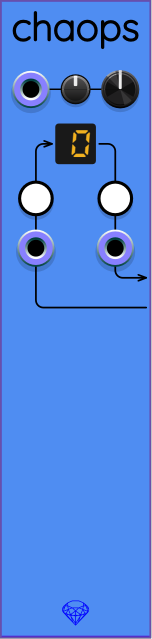
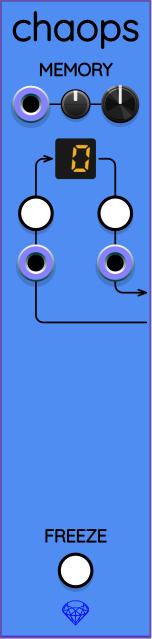
Chaops panel: Added MEMORY label. Moved stuff up/down for cosmetics.

Changed region(s): [[0.0789, 0.0892, 0.9737, 0.5055], [0.2895, 0.8028, 0.7105, 0.9515]]

diff --git a/util/make_sapphire_svg.py b/util/make_sapphire_svg.py
@@ -99,17 +99,18 @@ def GenerateChaosOperatorsPanel(cdict:Dict[str,ControlLayer]) -> int:
     cdict[name] = controls = ControlLayer()
 
     xmid = panel.mmWidth / 2
-    yMemorySelect = 18.0
-    yMemoryDisplay = 29.0
-    yMemoryButton = 40.0
-    yMemoryTriggerPorts = 50.0
-    yFreezeButton = 90.0
+    dyMemory = 3.0
+    yMemorySelect = 18.0 + dyMemory
+    yMemoryDisplay = 29.0 + dyMemory
+    yMemoryButton = 40.0 + dyMemory
+    yMemoryTriggerPorts = 50.0 + dyMemory
+    yFreezeButton = 115.0
     dxButton = 8.0
     xStore  = xmid - dxButton
     xRecall = xmid + dxButton
     arcRadius = 1.5
-    yRecallLine = 56.0
-    yStoreLine = 62.0
+    yRecallLine = 56.0 + dyMemory
+    yStoreLine  = 62.0 + dyMemory
     xRightPanel = panel.mmWidth - 1.0
     dxDisplay = 4.75
     dyButtonText = 7.0
@@ -156,6 +157,7 @@ def GenerateChaosOperatorsPanel(cdict:Dict[str,ControlLayer]) -> int:
         pl.append(ModelNamePath(panel, font, name))
         pl.append(StoreLineArt())
         pl.append(RecallLineArt())
+        pl.append(CenteredControlTextPath(font, 'MEMORY', xmid, yMemorySelect - dyButtonText))
         pl.append(CenteredControlTextPath(font, 'FREEZE', xmid, yFreezeButton - dyButtonText))
         AddFlatControlGroup(pl, controls, xmid, yMemorySelect, 'memsel')
         controls.append(Component('store_button',   xStore,  yMemoryButton))

diff --git a/src/sapphire_panel.cpp b/src/sapphire_panel.cpp
@@ -9,15 +9,15 @@ namespace Sapphire
     static const ModuleMap TheModuleMap
     {
         { "chaops", {
-            {"freeze_button",          {  15.240,   90.000}},
-            {"memory_address_display", {  15.240,   29.000}},
-            {"memsel_atten",           {  15.240,   18.000}},
-            {"memsel_cv",              {   6.240,   18.000}},
-            {"memsel_knob",            {  24.240,   18.000}},
-            {"recall_button",          {  23.240,   40.000}},
-            {"recall_trigger",         {  23.240,   50.000}},
-            {"store_button",           {   7.240,   40.000}},
-            {"store_trigger",          {   7.240,   50.000}},
+            {"freeze_button",          {  15.240,  115.000}},
+            {"memory_address_display", {  15.240,   32.000}},
+            {"memsel_atten",           {  15.240,   21.000}},
+            {"memsel_cv",              {   6.240,   21.000}},
+            {"memsel_knob",            {  24.240,   21.000}},
+            {"recall_button",          {  23.240,   43.000}},
+            {"recall_trigger",         {  23.240,   53.000}},
+            {"store_button",           {   7.240,   43.000}},
+            {"store_trigger",          {   7.240,   53.000}},
             }},
         { "elastika", {
             {"audio_left_input",       {   7.500,  115.000}},
